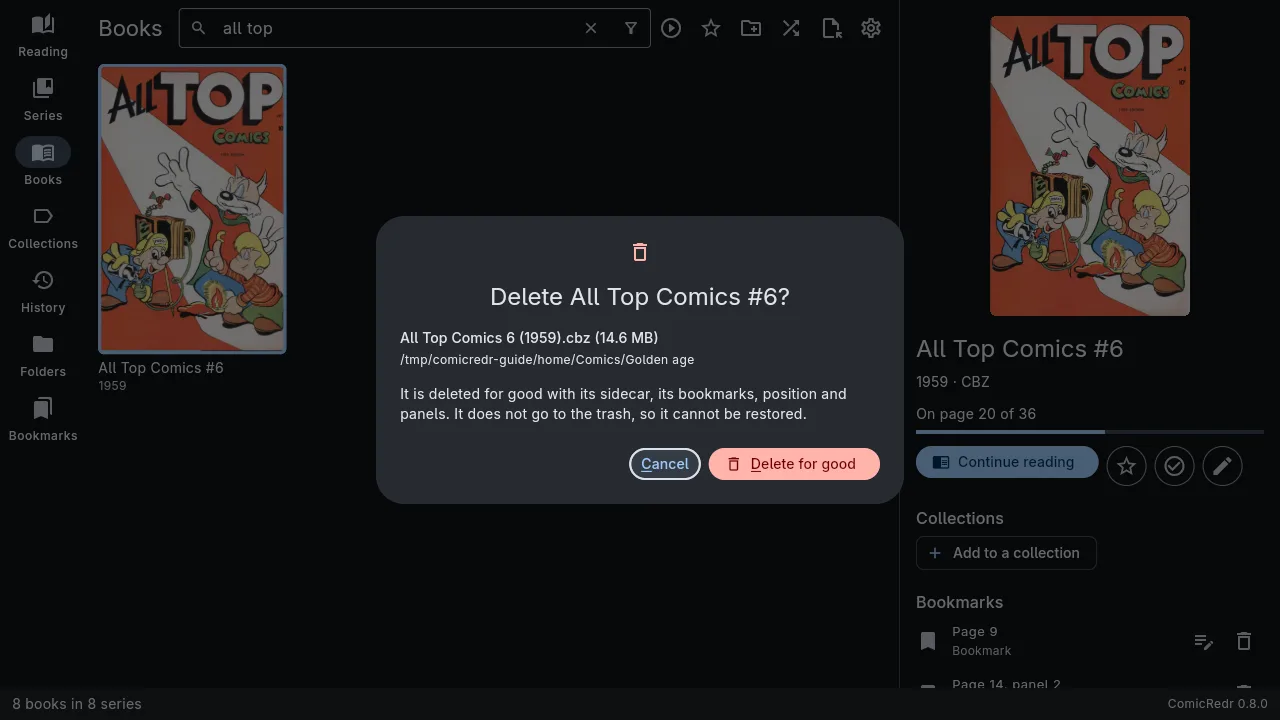
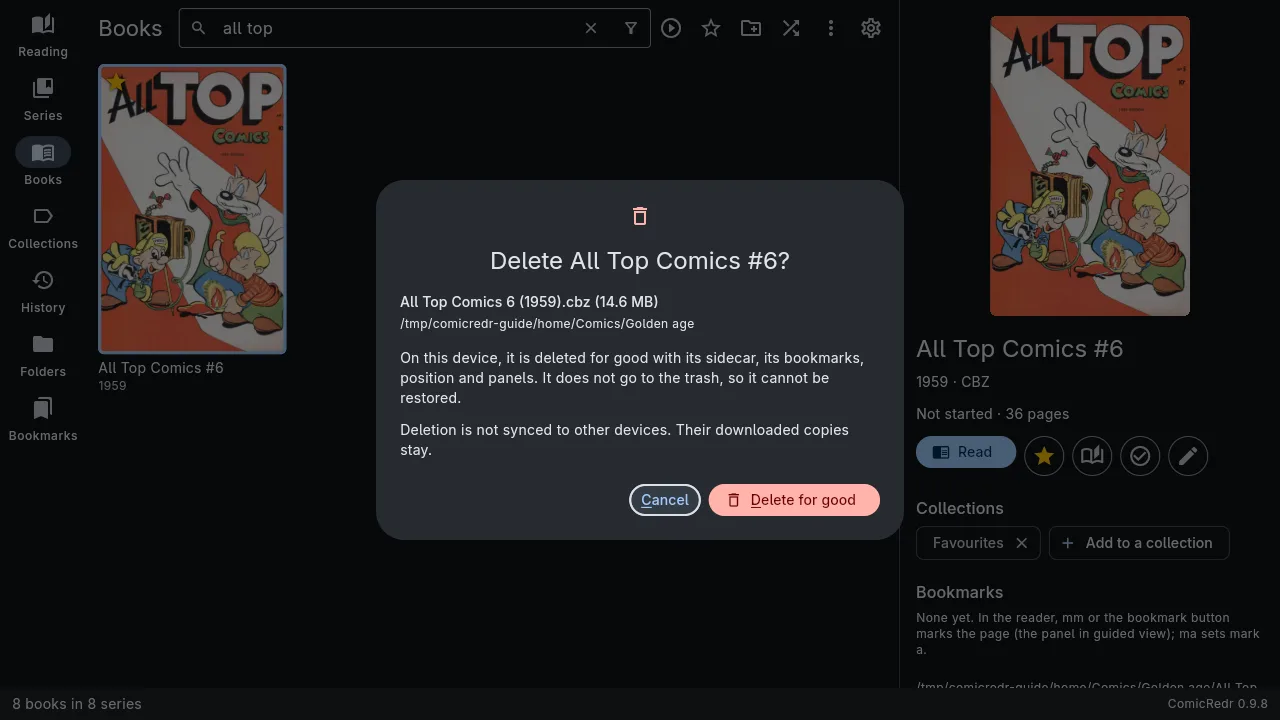
Clarify local and S3 comic deletion scope (vo3)

diff --git a/lib/src/library/delete_book.dart b/lib/src/library/delete_book.dart
@@ -91,6 +91,7 @@ Future<DeleteChoice> askDelete(BuildContext context, DeleteFacts f) async =>
         return DialogHotkeys(
           child: AlertDialog(
             key: const Key('deleteDialog'),
+            scrollable: true,
             icon: Icon(Icons.delete_outline, color: theme.colorScheme.error),
             title: Text('Delete ${f.name}?'),
             content: ConstrainedBox(
@@ -105,18 +106,21 @@ Future<DeleteChoice> askDelete(BuildContext context, DeleteFacts f) async =>
                   const SizedBox(height: 16),
                   Text(
                     f.link
-                        ? 'It is a link: the link is deleted with its sidecar, its bookmarks, position and panels. '
+                        ? 'On this device, the link is deleted with its sidecar, its bookmarks, position and panels. '
                               'The comic it points to stays where it is.'
-                        : 'It is deleted for good with its sidecar, its bookmarks, position and panels. '
+                        : 'On this device, it is deleted for good with its sidecar, its bookmarks, position and panels. '
                               'It does not go to the trash, so it cannot be restored.',
                   ),
                   if (f.onS3) ...[
                     const SizedBox(height: 12),
                     const Text(
                       'It is on S3 too. Delete only here keeps the copy in the bucket, and the comic stays in the '
-                      'library to download again; the other device keeps its own copy either way.',
+                      'library to download again. Delete here and from S3 also deletes the comic and its sidecar '
+                      'from the bucket.',
                     ),
                   ],
+                  const SizedBox(height: 12),
+                  const Text('Deletion is not synced to other devices. Their downloaded copies stay.'),
                 ],
               ),
             ),
@@ -170,7 +174,7 @@ List<Widget> _deleteButtons(BuildContext context, {required bool onS3, required 
 /// Asks once before deleting several marked comics (`gd`, Shift+Delete or
 /// Delete in the marks bar): their names, how much they take, and, when
 /// any is on S3, the same three choices as for one. [remoteOnly] counts
-/// marked comics that are only on S3: only "Delete here and from S3" does
+/// marked comics that are only on S3: only the S3 removal choice does
 /// anything to them. Cancel has the focus.
 Future<DeleteChoice> askDeleteMany(BuildContext context, List<DeleteFacts> facts, {int remoteOnly = 0}) async =>
     await showDialog<DeleteChoice>(
@@ -185,6 +189,7 @@ Future<DeleteChoice> askDeleteMany(BuildContext context, List<DeleteFacts> facts
         return DialogHotkeys(
           child: AlertDialog(
             key: const Key('deleteDialog'),
+            scrollable: true,
             icon: Icon(Icons.delete_outline, color: theme.colorScheme.error),
             title: Text('Delete $n comics?'),
             content: ConstrainedBox(
@@ -206,7 +211,7 @@ Future<DeleteChoice> askDeleteMany(BuildContext context, List<DeleteFacts> facts
                   const SizedBox(height: 16),
                   if (facts.isNotEmpty)
                     Text(
-                      'They are deleted for good with their sidecars, bookmarks, positions and panels. '
+                      'On this device, they are deleted for good with their sidecars, bookmarks, positions and panels. '
                       'They do not go to the trash, so they cannot be restored.'
                       '${links == 0 ? '' : ' Of ${_theLinks(links)}, only the link goes.'}',
                     ),
@@ -218,12 +223,17 @@ Future<DeleteChoice> askDeleteMany(BuildContext context, List<DeleteFacts> facts
                           'Some are on S3 too. Delete only here keeps their copies in the bucket, and they stay in the '
                               'library to download again.',
                         if (remoteOnly > 0)
-                          '$remoteOnly ${remoteOnly == 1 ? 'is' : 'are'} only on S3: only Delete here and from S3 '
-                              'takes ${remoteOnly == 1 ? 'it' : 'them'} away.',
-                        'The other device keeps its own copies either way.',
+                          '$remoteOnly ${remoteOnly == 1 ? 'is' : 'are'} only on S3: '
+                              '${facts.isEmpty ? 'Delete from S3' : 'Delete here and from S3'} '
+                              'deletes ${remoteOnly == 1 ? 'it' : 'them'} and '
+                              '${remoteOnly == 1 ? 'its sidecar' : 'their sidecars'} from the bucket.',
+                        if (facts.any((f) => f.onS3))
+                          'Delete here and from S3 also deletes their comics and sidecars from the bucket.',
                       ].join(' '),
                     ),
                   ],
+                  const SizedBox(height: 12),
+                  const Text('Deletion is not synced to other devices. Their downloaded copies stay.'),
                 ],
               ),
             ),
@@ -231,7 +241,11 @@ Future<DeleteChoice> askDeleteMany(BuildContext context, List<DeleteFacts> facts
               context,
               onS3: onS3,
               onlyHere: onS3 && facts.isNotEmpty,
-              label: onS3 ? 'Delete here and from S3' : 'Delete $n for good',
+              label: !onS3
+                  ? 'Delete $n for good'
+                  : facts.isEmpty
+                  ? 'Delete from S3'
+                  : 'Delete here and from S3',
             ),
           ),
         );
@@ -296,8 +310,9 @@ Future<List<String>> deleteComic({
 }
 
 /// The notice after a delete.
-String deletedNotice(String name, List<String> stuck) =>
-    stuck.isEmpty ? '$name deleted' : '$name deleted, but its sidecar ${stuck.first} could not be removed';
+String deletedNotice(String name, List<String> stuck) => stuck.isEmpty
+    ? '$name deleted from this device'
+    : '$name deleted from this device, but its sidecar ${stuck.first} could not be removed';
 
 /// The [links] among the comics to delete, as the question names them.
 String _theLinks(int links) => links == 1 ? 'the one that is a link' : 'the $links that are links';

diff --git a/test/hotkeys_test.dart b/test/hotkeys_test.dart
@@ -1750,6 +1750,9 @@ void main() {
       final answer = await asking(tester, (context) => askDelete(context, facts(onS3: true)));
       expect(find.text('Delete only here'), findsOneWidget);
       expect(find.text('Delete here and from S3'), findsOneWidget);
+      expect(find.textContaining('On this device, it is deleted for good'), findsOneWidget);
+      expect(find.textContaining('also deletes the comic and its sidecar from the bucket'), findsOneWidget);
+      expect(find.textContaining('Deletion is not synced to other devices'), findsOneWidget);
       await threeChoices(tester, answer);
     });
 
@@ -1758,6 +1761,9 @@ void main() {
       expect(find.byKey(here), findsNothing);
       expect(find.byKey(everywhere), findsNothing);
       expect(find.text('Delete only here'), findsNothing);
+      expect(find.textContaining('On this device, it is deleted for good'), findsOneWidget);
+      expect(find.textContaining('Deletion is not synced to other devices'), findsOneWidget);
+      expect(find.textContaining('from the bucket'), findsNothing);
       expect(focused(tester, 'Cancel'), isTrue);
       // Alt+O is no button's letter here.
       await tester.sendKeyDownEvent(LogicalKeyboardKey.altLeft);
@@ -1773,12 +1779,25 @@ void main() {
     testWidgets('deleting several: three ways when one is on S3, two when none is or all are only there', (
       tester,
     ) async {
-      var answer = await asking(tester, (context) => askDeleteMany(context, [facts(onS3: true), facts(onS3: false)]));
+      var answer = await asking(
+        tester,
+        (context) => askDeleteMany(context, [facts(onS3: true), facts(onS3: false)], remoteOnly: 1),
+      );
+      expect(find.textContaining('On this device, they are deleted for good'), findsOneWidget);
+      expect(find.textContaining('also deletes their comics and sidecars from the bucket'), findsOneWidget);
+      expect(
+        find.textContaining('1 is only on S3: Delete here and from S3 deletes it and its sidecar'),
+        findsOneWidget,
+      );
+      expect(find.textContaining('Deletion is not synced to other devices'), findsOneWidget);
       await threeChoices(tester, answer);
 
       answer = await asking(tester, (context) => askDeleteMany(context, [facts(onS3: false), facts(onS3: false)]));
       expect(find.byKey(here), findsNothing);
       expect(find.byKey(everywhere), findsNothing);
+      expect(find.textContaining('On this device, they are deleted for good'), findsOneWidget);
+      expect(find.textContaining('Deletion is not synced to other devices'), findsOneWidget);
+      expect(find.textContaining('from the bucket'), findsNothing);
       await tester.tap(find.byKey(confirm));
       await tester.pumpAndSettle();
       expect(answer(), DeleteChoice.here);
@@ -1787,7 +1806,19 @@ void main() {
       answer = await asking(tester, (context) => askDeleteMany(context, const [], remoteOnly: 2));
       expect(find.byKey(here), findsNothing);
       expect(find.byKey(confirm), findsNothing);
+      expect(find.text('Delete from S3'), findsOneWidget);
+      expect(find.text('Delete here and from S3'), findsNothing);
+      expect(find.textContaining('On this device, they are deleted'), findsNothing);
+      expect(find.textContaining('deletes them and their sidecars from the bucket'), findsOneWidget);
+      expect(find.textContaining('Deletion is not synced to other devices'), findsOneWidget);
       expect(focused(tester, 'Cancel'), isTrue);
+      // The renamed S3-only button still has its advertised Alt+D mnemonic.
+      await tester.sendKeyDownEvent(LogicalKeyboardKey.altLeft);
+      await tester.sendKeyEvent(LogicalKeyboardKey.keyD, character: 'd');
+      await tester.sendKeyUpEvent(LogicalKeyboardKey.altLeft);
+      await tester.pumpAndSettle();
+      expect(answer(), DeleteChoice.everywhere);
+      await again(tester);
       await tester.tap(find.byKey(everywhere));
       await tester.pumpAndSettle();
       expect(answer(), DeleteChoice.everywhere);
@@ -1835,6 +1866,14 @@ void main() {
         expect(find.byKey(key), findsNothing, reason: '$key has nothing here to work on');
       }
       expect(find.text('Downloads to ${root.path}/Akira.cbz'), findsOneWidget);
+      await tester.tap(find.byKey(const Key('removeS3')));
+      await tester.pumpAndSettle();
+      expect(find.textContaining('Only the copy in the S3 bucket'), findsOneWidget);
+      expect(find.textContaining('Deletion is not synced to other devices'), findsOneWidget);
+      expect(find.textContaining('on this device stay'), findsNothing);
+      await tester.sendKeyEvent(LogicalKeyboardKey.enter); // Cancel.
+      await tester.pumpAndSettle();
+      expect(find.byKey(const Key('s3RemoveDialog')), findsNothing);
 
       // Here and on S3: the comic's own buttons, and no Download.
       await show(book(S3Mark.synced));
@@ -1844,6 +1883,14 @@ void main() {
       for (final key in last) {
         expect(find.byKey(key), findsOneWidget);
       }
+      await tester.tap(find.byKey(const Key('removeS3')));
+      await tester.pumpAndSettle();
+      expect(find.textContaining('Only the copy in the S3 bucket'), findsOneWidget);
+      expect(find.textContaining('The comic and its sidecar on this device stay'), findsOneWidget);
+      expect(find.textContaining('Deletion is not synced to other devices'), findsOneWidget);
+      await tester.sendKeyEvent(LogicalKeyboardKey.escape);
+      await tester.pumpAndSettle();
+      expect(find.byKey(const Key('s3RemoveDialog')), findsNothing);
     });
 
     testWidgets('Settings has its parts in this order from the top, which is the order Tab takes', (tester) async {

diff --git a/lib/src/library/bulk_actions.dart b/lib/src/library/bulk_actions.dart
@@ -38,8 +38,8 @@ Future<void> _writeSidecars(SidecarSync sidecars, Iterable<LibraryBook> books) a
 
 /// Deletes the marked [books] after one question for all of them: `gd` or
 /// Shift+Delete with comics marked, or Delete in the marks bar. Comics only
-/// on S3 are taken off S3 when "Delete here and from S3" is picked, and
-/// left alone otherwise. [beforeDelete] runs once it is confirmed. The
+/// on S3 are taken off S3 when the S3 removal choice is picked, and left
+/// alone otherwise. [beforeDelete] runs once it is confirmed. The
 /// notice at the end must be read when a comic or a sidecar could not be
 /// deleted: the sync's "Removed X from S3" follows it within moments.
 Future<bool> deleteLibraryBooks(
@@ -98,7 +98,7 @@ Future<bool> deleteLibraryBooks(
   if (choice == DeleteChoice.everywhere) offS3.addAll(remote.map((b) => b.key));
   if (offS3.isNotEmpty) await s3.removeFromS3(offS3);
   final parts = [
-    if (deleted > 0) '${comicsCount(deleted)} deleted',
+    if (deleted > 0) '${comicsCount(deleted)} deleted from this device',
     if (choice == DeleteChoice.everywhere && remote.isNotEmpty) '${comicsCount(remote.length)} taken off S3',
     if (failed.isNotEmpty)
       'could not delete ${failed.first}${failed.length > 1 ? ' and ${failed.length - 1} more' : ''}',

diff --git a/lib/src/library/s3_actions.dart b/lib/src/library/s3_actions.dart
@@ -79,16 +79,17 @@ Future<bool> removeBooksFromS3(BuildContext context, WidgetRef ref, List<Library
     builder: (context) => DialogHotkeys(
       child: AlertDialog(
         key: const Key('s3RemoveDialog'),
+        scrollable: true,
         icon: const Icon(Icons.cloud_off),
         title: Text('Remove $what from S3?'),
         content: ConstrainedBox(
           constraints: const BoxConstraints(maxWidth: 480),
           child: Text(
             [
-              'The copy in the bucket and its sidecar there are deleted.',
+              'Only the copy in the S3 bucket and its sidecar there are deleted.',
               if (local > 0) 'The comic and its sidecar on this device stay.',
               if (local < todo.length) 'A comic that is only on S3 disappears from this library.',
-              "The other device keeps its own copy, if it downloaded one.",
+              'Deletion is not synced to other devices. Their downloaded copies stay.',
             ].join(' '),
           ),
         ),

diff --git a/test/multi_select_test.dart b/test/multi_select_test.dart
@@ -237,7 +237,7 @@ void main() {
     await until(tester, () {
       expect([for (final f in files) File(f).existsSync()], [true, false, false, true, true]);
       expect(find.byKey(const Key('marksBar')), findsNothing);
-      expect(find.textContaining('2 comics deleted'), findsOneWidget);
+      expect(find.text('2 comics deleted from this device'), findsOneWidget);
     });
   });
 

diff --git a/test/delete_test.dart b/test/delete_test.dart
@@ -250,7 +250,7 @@ void main() {
       }
       expect(File(path).existsSync(), isFalse);
       expect(c.read(readerProvider).book, isNull);
-      expect(find.textContaining('deleted'), findsWidgets);
+      expect(find.textContaining('deleted from this device'), findsOneWidget);
     });
   });
 }

diff --git a/docs/guide/07-managing-comics.md b/docs/guide/07-managing-comics.md
@@ -88,13 +88,15 @@ comic** in its details) deletes it, after asking.
   From the keyboard, `Alt+D` is the delete button and `Alt+C` is
   **Cancel**: `Alt` with the underlined letter, as in
   [every dialog](09-keyboard.md#a-key-for-every-button).
-- The comic and its sidecar are deleted for good. They do **not** go to
-  the trash, so they can't be restored.
+- The comic and its sidecar on this device are deleted for good. They do
+  **not** go to the trash, so they can't be restored.
 - A comic that is a link (symlink) loses only the link (the button says
   **Delete the link**); the comic it points to stays where it is.
 - A comic that is also [on S3](13-s3-sync.md#taking-a-comic-off-s3)
   offers **Delete only here** and **Delete here and from S3**. On a comic
   that is only on S3, `gd` offers to take it off S3.
+- Deletion is not synced to other devices. Copies they have downloaded
+  stay on those devices, even when you also delete from S3.
 - If you were reading it, you are back in the library with the next cover
   selected.
 
@@ -104,6 +106,7 @@ To delete several, [mark them in the library](03-library.md#several-comics-at-on
 their size together, and **Cancel** is selected there too. When some are
 on S3 it offers **Delete only here** and **Delete here and from S3** for
 the lot. Comics that are only on S3 are removed only with **Delete here
-and from S3**.
+and from S3**. When all the marked comics are only on S3, the button
+says **Delete from S3**; nothing is deleted on this device.
 
 [Contents](README.md) · Previous: [Bookmarks and marks](06-bookmarks.md) · Next: [Touch](08-touch.md)

diff --git a/docs/guide/13-s3-sync.md b/docs/guide/13-s3-sync.md
@@ -205,7 +205,14 @@ with Cancel focused as ever:
   to download again.
 - **Delete here and from S3**: gone from this device and from the bucket.
 
-Neither ever deletes the other device's copy.
+Deletion is not synced to other devices. Their downloaded copies stay,
+whether you delete only here, only from S3, or both. Removing a comic
+from S3 does remove its cloud-only entry on devices that have not
+downloaded it.
+
+For example, **Delete only here** on your phone frees its local space
+while keeping the comic on S3 and on your tablet. **Delete here and from
+S3** also removes the bucket's copy; the tablet's downloaded copy stays.
 
 If the bucket is off, the removal waits and happens when it is back.
 

diff --git a/CHANGELOG.md b/CHANGELOG.md
@@ -7,6 +7,10 @@ the `?` overlay.
 
 ## Unreleased
 
+- Delete confirmations and notices name this device and S3 explicitly.
+  They explain that deletion does not remove downloaded copies on other
+  devices; a selection entirely on S3 offers **Delete from S3**.
+
 ## 0.9.8
 
 - S3 sync pauses for an hour after a server outage, keeping changes on
